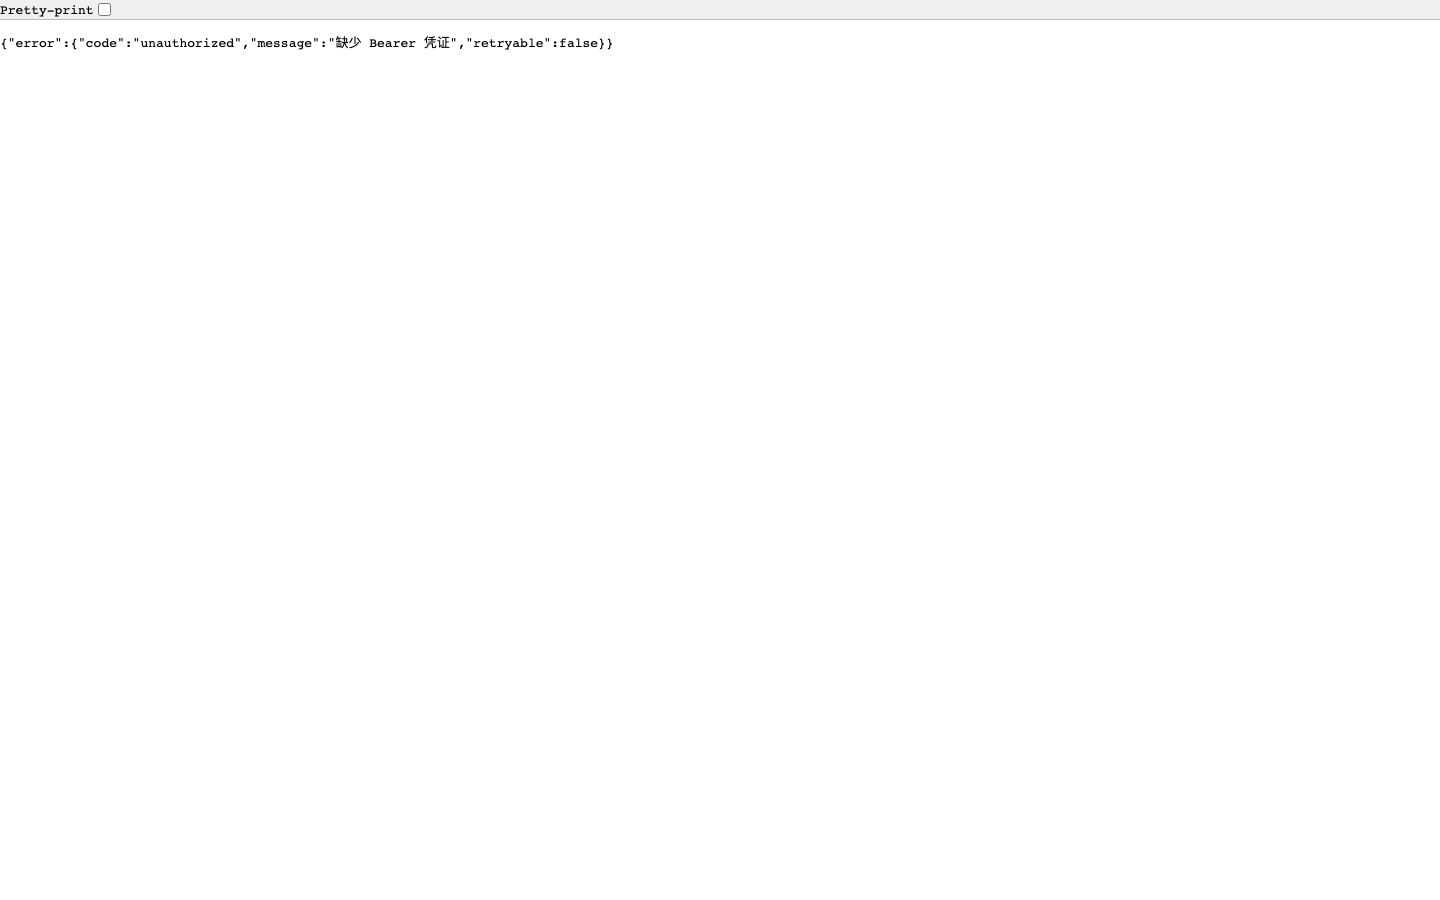
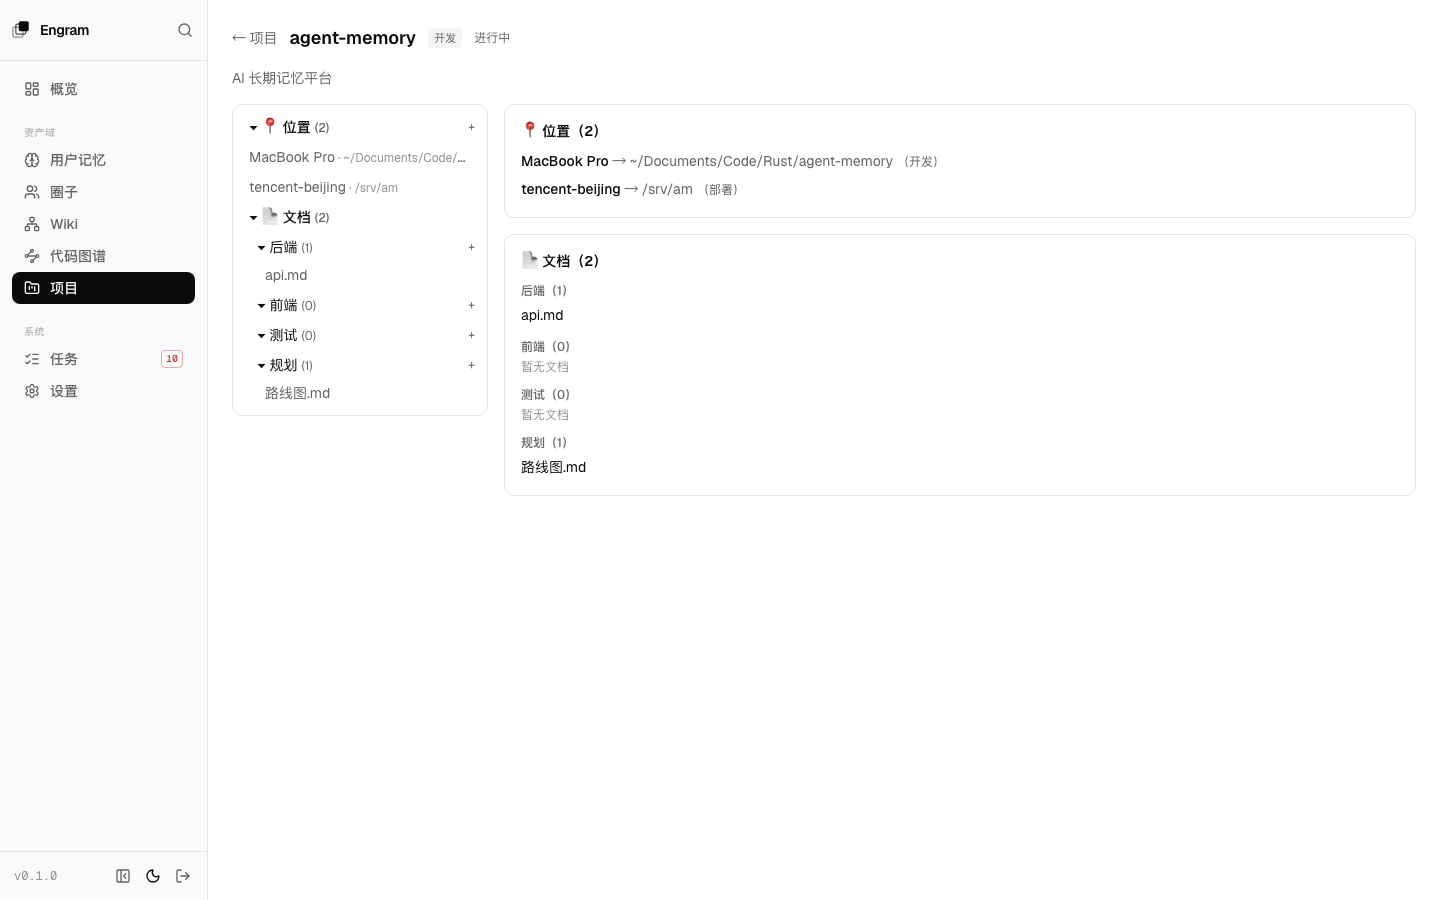
fix(server) SPA 导航分流扩展到 /projects——审计发现的深链 401 修复 + 截图重拍
独立 auditor 发现两个缺陷，本次修复：

1. 深链/刷新路由冲突：浏览器硬刷新 /projects、/projects/{id} 曾命中 API
   处理器返回 401 JSON（缺 Bearer）而非 SPA 页。/jobs 已有 Accept: text/html
   分流，本提交把分流抽象成 is_spa_nav_path() 并覆盖 /projects 及子路径。
   新增 projects_spa_navigation_bypasses_auth 测试（text/html 导航非 401）。

2. 截图证据失效：project-shots.mjs 的 page.goto 整页导航触发了上述冲突，
   两张截图 MD5 相同（都是 401 页）。修复分流后重拍：列表 47.3K / 详情 67.3K，
   MD5 不同，真实页面。

project_test 7 passed（+1 SPA 分流用例）。

diff --git a/server/crates/api/tests/project_test.rs b/server/crates/api/tests/project_test.rs
@@ -331,3 +331,42 @@ async fn project_scope_required() {
     let (st, _) = send(&app, "GET", "/projects", &pkey, None).await;
     assert_eq!(st, StatusCode::OK, "有 project scope 应 200");
 }
+
+/// 审计发现：浏览器硬刷新 /projects（Accept: text/html）曾命中 API 处理器返回 401 JSON。
+/// 修复后走 SPA 分流（回 index.html），不再是认证墙。
+#[tokio::test]
+async fn projects_spa_navigation_bypasses_auth() {
+    let (app, _pg) = app().await;
+    // 浏览器导航（Accept: text/html）→ 回 SPA（200 若 web/dist 嵌入，404 若未构建），绝不应 401
+    let resp = app
+        .clone()
+        .oneshot(
+            Request::builder()
+                .method("GET")
+                .uri("/projects")
+                .header("accept", "text/html")
+                .body(Body::empty())
+                .unwrap(),
+        )
+        .await
+        .unwrap();
+    assert_ne!(
+        resp.status(),
+        StatusCode::UNAUTHORIZED,
+        "SPA 导航不应命中 401 认证墙"
+    );
+    // 详情页深链同理
+    let resp = app
+        .clone()
+        .oneshot(
+            Request::builder()
+                .method("GET")
+                .uri("/projects/00000000-0000-0000-0000-000000000000")
+                .header("accept", "text/html")
+                .body(Body::empty())
+                .unwrap(),
+        )
+        .await
+        .unwrap();
+    assert_ne!(resp.status(), StatusCode::UNAUTHORIZED);
+}

diff --git a/server/crates/api/src/auth.rs b/server/crates/api/src/auth.rs
@@ -145,7 +145,10 @@ pub async fn bearer_auth(
         .get(axum::http::header::ACCEPT)
         .and_then(|v| v.to_str().ok())
         .is_some_and(|a| a.starts_with("text/html"));
-    if accept_html && req.uri().path() == "/jobs" {
+    // SPA 导航分流（D-001）：/jobs、/projects 及子路径与前端路由同路径——
+    // 浏览器硬刷新（Accept: text/html*）直接回 SPA 页，不要求 Bearer；
+    // API 客户端（JSON Accept）照常走认证。
+    if accept_html && is_spa_nav_path(req.uri().path()) {
         return crate::web_assets::static_handler(req.uri().clone()).await;
     }
 
@@ -227,6 +230,11 @@ pub fn require_scope(principal: &Principal, scope: &str) -> Result<(), ApiError>
     } else {
         Err(ApiError::Forbidden(format!("缺少 scope: {scope}")))
     }
+}
+
+/// SPA 页面路由（与 API 端点同路径，浏览器导航时靠 Accept: text/html 区分）。
+fn is_spa_nav_path(path: &str) -> bool {
+    path == "/jobs" || path == "/projects" || path.starts_with("/projects/")
 }
 
 fn auth_error(message: &str) -> Response {
